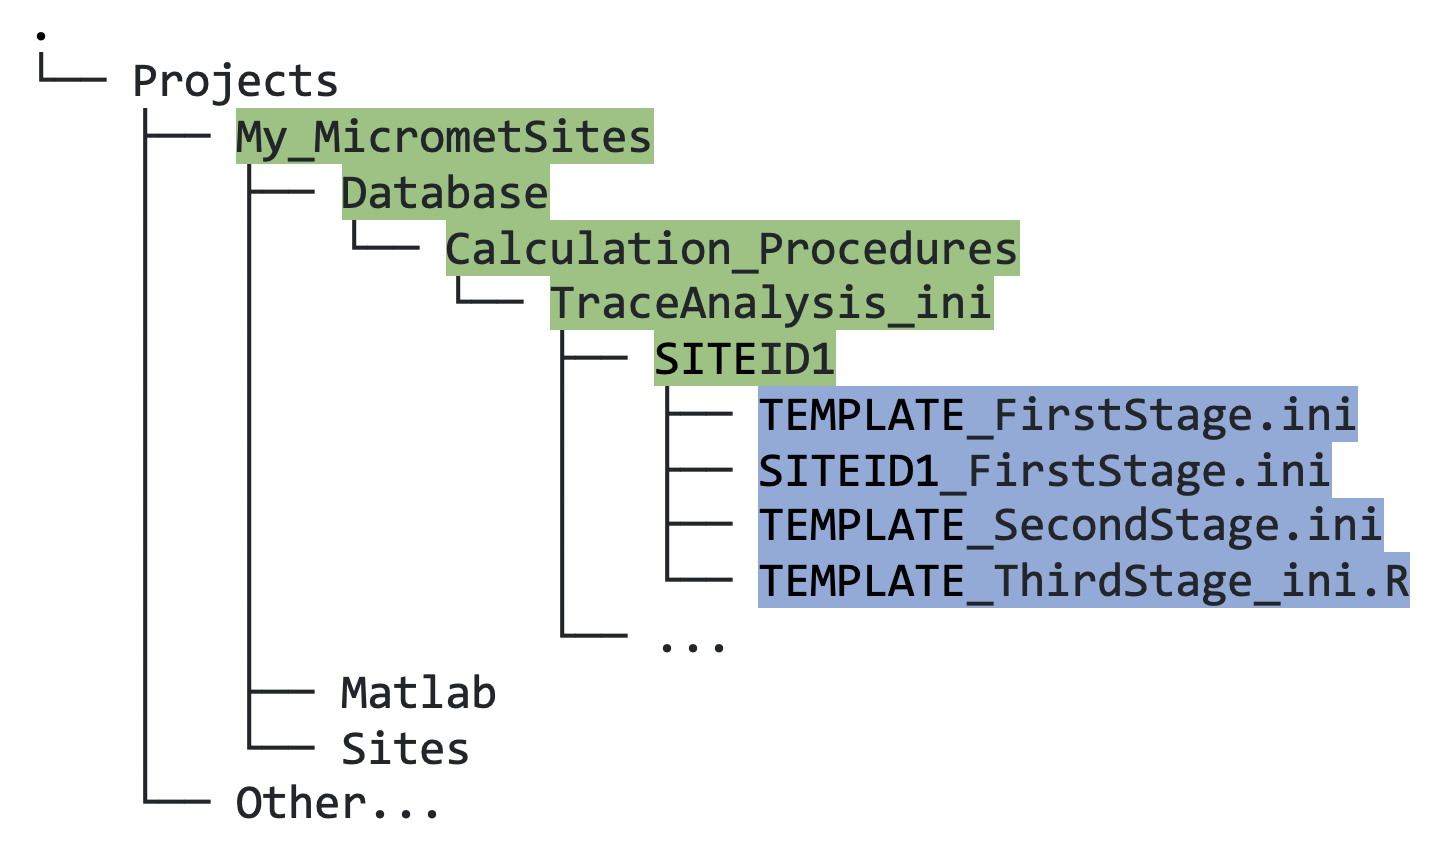
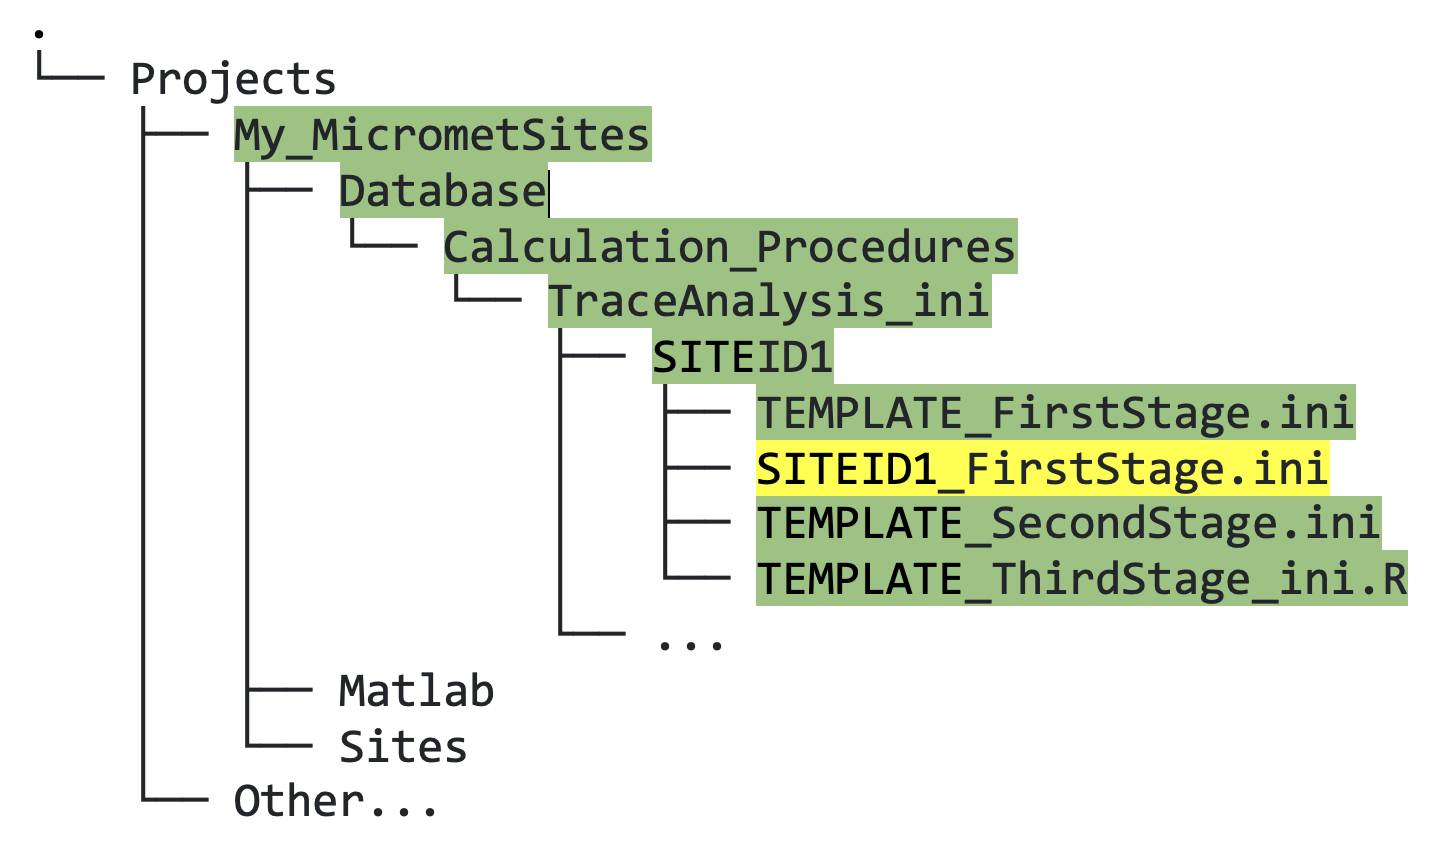
Added second stage INI template, plus minor edits

diff --git a/6.2_Quick_Start_Create_Second_Stage_INI_File.md b/6.2_Quick_Start_Create_Second_Stage_INI_File.md
@@ -1,66 +1,30 @@
-## 6.3. &nbsp; Quick Start: Create Your Second Stage INI File for Data Cleaning 
+## 6.2. &nbsp; Quick Start: Create Your Second Stage INI File for Data Cleaning 
 
-[XXX In Progress]
+This section will show you how to create your second stage INI file, in order to carry out the second stage data cleaning. The following steps assume that you have already created a first stage INI file for your flux site.
 
-#### *Second Stage INI file*
+1. As with the first stage, make a copy of `TEMPLATE_SecondStage.ini`, then rename the copy, replacing "TEMPLATE" with your site ID (`SITEID1` in this example; this filename format is required).
+2. Near the top of the file, insert the full name of your site (more descriptive is better) and your site ID. 
+3. The `TEMPLATE_SecondStage.ini` file provided already includes a set of fundamental climate variables. We advise testing the file with only these variables first. Note that even if you are not changing anything in the second stage, you must still include any variable that you wish to be available for the third stage (and beyond, e.g., Ameriflux submission), i.e., they must be "passed through".
+4. Test the second stage data cleaning in Matlab, as follows:
+    ```
+    fr_automated_cleaning(yearIn,'SITEID',2)
+    ```
+    Note the input parameter `2` instead of `1`, denoting second stage. You should see a new `Clean` folder directly under the site ID directory in your Database, for whichever year(s) you ran it for. Within that `Clean` folder, there will be a `SecondStage` folder (figure XXX).
 
-The steps to create your second stage INI are very similar to the first stage:
-* Duplicate the `DSM_SecondStage.ini` file you obtained then rename it with your unique measurement site ID, e.g., `MySITEID_SecondStage.ini` (you should have already completed this step [XXX link to Obtain_Sample_Config_Standardization_Files.md]).
-* Edit second stage INI file adding *just a few variables at a time* (as with the first stage) and then testing, so it’s easy to diagnose errors/typos. Pay attention to the output in your Matlab command window, it is informative and highlights any issues and where they occur. Recall the data cleaning principles previously outlined [XXX link to Data_Cleaning_Principles section?] and make sure your traces align with the second stage principles.
+    <img src="images/directory_trees/DirectoryTree6b_short.jpg" alt="DirectoryTree:MatlabDirectory" width="350"/>
 
-#### Second stage main features:
-1. Combining multiple sensor measurements into one trace. This can be done in different ways using `calc_avg_trace.m`, which combines two or more traces from the first stage (i.e., already deemed “good” sensor measurements; see section XXX on data cleaning principles). You can also combine these three methods:
- * Averaging multiple sensors to remove variability;
- * Using one sensor as the best (most accurate value) and using the other sensor(s) only to fill in the missing values. A relationship can be created between the “best” sensor and its “replacement” and that relationship can be applied to the “replacement” values to improve the accuracy;
- * Using the sensors from another near-by site to fill in the missing values at the current site.
+    *Figure 6.4. Directory tree showing location of data output (in this example, variable1, variable2, ...) from second stage cleaning.*
 
-    Arguments for `calc_avg_trace` function:
-    | Field | Description | Type |
-    | ----- | ----------- | ---- |
-    | tv | input the time vector `clean_tv` that has already been created in the first stage cleaning | n/a|
-    | data_in | the name of the trace output from stage one, to be filled or "improved" by combining/averaging with another trace or traces | string uppercase |
-    | data_fill | the name of the traces used to average/gap-fill "data_in" trace; these "data_fill" traces must have been included in the first stage | integer |
-    | avg_period | |
+5. You can add any more relevant variables into the second stage INI file. Again, use the visualization tools to check your data looks as expected, then you are ready to progress to third stage cleaning.
 
+[XXX add fluxes to template? needed for third stage example?]
 
+### Quick summary of second stage features
+1. Combine multiple traces into one using the `calc_avg_trace` function. These traces *must* already have been defined in the first stage.
+2. Use the "Evaluate" option to operate on your input traces.
 
-2. As with the first stage, more complex user-defined processing can be applied to the trace using the “Evaluate” option. User written Matlab functions can be called from this statement. Multiple Matlab statements can be called from within the “Evaluate” string. Some rules for formatting apply here (see the DSM SecondStage ini file for details and examples).
-
-[Add DSM_SecondStage.INI file image or link to file for downloading]
-
-#### Second Stage INI file Properties
-
-| Field      | Description |
-| ----------- | ----------- |
-| **XXX Which of these first six fields are actually used/necessary?**
-| Site_name   | Name of the site. Any text can go here.        |
-| SiteID      | This is the name attributed to the site in the database (e.g., DSM or BB). |
-| input_path  | This can stay blank |
-| output_path | The local output path?  **Example says leave blank?** |
-| high_level_path | leave blank:{}. It used to indicate Met/Flux, etc.|
-| searchPath  | All traces on this path(s) will be loaded up and available in the SecondStage cleaning. Syntax: use 'auto' or use specific folders to limit or to expand the (example: 'Flux\Clean,Met\Clean,Flags\Clean'). When option 'auto' is used, all the traces created by the FirstStage cleaning will be automatically loaded before the SecondStage cleaning starts. |
-|[Trace] | Marks the beginning of a new variable. The section has to end with the keyword <[End]>.|
-| variableName | Name of variable for second stage, again following Ameriflux format. The variable with the name created here will show up in the `/Database/yyyy/SITEID/Clean/SecondStage` folder, where `yyyy` is the year that the data is valid for. |
-| Evaluate | User defined function.  If no function is applied, default input will just pass the variable from the first stage to the second stage, e.g.,  `Evaluate = 'TKE = TKE;'`.  Use the `calc_avg_trace` function (described above) to average or gap-fill met variables (such as air temperature) with values from secondary measurements or nearby sites (you will need to load these into the first stage before using them in this second stage). See sample file `DSM_SecondStage.ini` for more use cases.|
-| title | Descriptive variable name for plots/visualization. |
-| units | Units for this current trace, e.g. `'W/m^2'`|
-
-Once you have added a few variables to the second stage INI, test it using the following Matlab command:
-`fr_automated_cleaning(yearIn,SITEID,[1 2])`
-Alternatively, if you already ran the first stage, you can simply run:
-`fr_automated_cleaning(yearIn,SITEID,2)`.
-
-**Note for first and second stage:** [XXX not sure if this belongs here or elsewhere] Here are some programming rules that you must follow for the INI files to be successfully read by the pipeline scripts:
+Example: the `TA_1_1_1` trace you defined in the first stage has some missing data and there is a nearby reliable climate station with a long record. In the first stage you also defined (and filtered etc.) data from this climate station in a variable called `TA_ECCC`. Then in the second stage, you can use `calc_avg_trace` within the `Evaluate` parameter, as follows:
 ```
-Programming Syntax Rules for First and Second stage INI files:
-
-1. We enforce using uppercase for site IDs to avoid problems between running data cleaning on Mac vs. Windows.
-2. All traces must be enclosed in [Trace] and [End] blocks.
-3. All assignments can be on multiple lines, but should be enclosed in single quotes.
-4. Comments must begin with a percentage sign (%).
-5. All fields must be in Matlab format.
-6. All parameter assignments must be to strings in single quotes, or numeric expressions, e.g., threshold_const = 6, threshold_const = [6], variableName = 'Some Name'.
-7. For the first stage, the partial path must be included with the inputFileName when you locate the raw data trace in the database. (Using biomet_path function only returns the path: /year/SITEID/measType/)
-8. First stage necessary fields are: variableName, inputFileName, measurementType, units, title, and minMax.
-9. Second stage necessary fields are: variableName, title, units.
+Evaluate = 'TA_1_1_1 = calc_avg_trace(clean_tv,TA_1_1_1,TA_ECCC,-1)';
 ```
+The function regresses the two variables provided and uses the resulting linear fit to fill the gap(s) in the first variable. For more details on this see the full documentation section 6.5 [XXX link]. Note that fluxes are gap-filled in stage three. 

diff --git a/4.2_Full_Doc_Setup_Project_Directory_Structure_Details.md b/4.2_Full_Doc_Setup_Project_Directory_Structure_Details.md
@@ -4,9 +4,7 @@
 
 Here is the long version of how to set up your project directory structure and configure Matlab to work with Biomet.net. For the "Quick Start" guide to both these procedures, see section 4.1 [XXX link].
 
-Each user should have at least one `Project` directory. This project folder encompasses data cleaning/analysis/research for a group of similar flux sites, e.g., FLUXNET-Canada-V2.0. This section describes what your project directory structure should look like for the existing data cleaning scripts to operate successfully. 
-
-We provide you with a function as part of the Biomet library to help you set it up. Reminder that in the directory tree diagrams, <mark style="background-color: lightgreen">directory paths are highlighted in green</mark>, and <mark style="background-color: lightblue">files are highlighted in blue</mark>. [XXX fix to match exact colour used in images!]
+Each user should have at least one `Project` directory. This project folder encompasses data cleaning/analysis/research for a group of similar flux sites, e.g., FLUXNET-Canada-V2.0. This section describes what your project directory structure should look like for the existing data cleaning scripts to operate successfully. We provide you with a function as part of the Biomet library to help you set it up.
 
 **Important notes**: 
 * We enforce using *uppercase* for site IDs, to avoid problems between running data cleaning on Mac vs. Windows. Examples: the Delta Salt Marsh site ID is `DSM`; the Turkey Point Agriculture site ID is `TPAG`.

diff --git a/1_Motivation_Importance_of_Data_Standardization_Reproducibility.md b/1_Motivation_Importance_of_Data_Standardization_Reproducibility.md
@@ -11,5 +11,5 @@ Include/emphasize why this is a good way compared with their usual way - same as
 [XXX Rosie see notes for adding content here]
 
 **Note:** 
-Throughout this documentation, you will see figures with directory tree diagrams to help you ensure your folders are set up correctly. Note that <mark style="background-color: lightgreen">directory paths are highlighted in green</mark>, and <mark style="background-color: lightblue">files are highlighted in blue</mark>. [XXX add html to match exact colour used in images]
-[XXX this note may fit better elsewhere, also not necessarily true yet! - will work on this formatting once things are more complete]
+[XXX remove this maybe]
+Throughout this documentation, you will see figures with directory tree diagrams and Matlab code. Note that <mark style="background-color: lightgreen">directory paths are highlighted in green</mark>, <mark style="background-color: yellow">necessary edits are highlighted in yellow</mark>, and <mark style="background-color: #FFE5B4">edits that you may need to make are highlighted in peach</mark>. [XXX add html to match exact colour used in images]

diff --git a/6.3_Quick_Start_Third_Stage_Cleaning_And_Ameriflux_Output.md b/6.3_Quick_Start_Third_Stage_Cleaning_And_Ameriflux_Output.md
@@ -1,7 +1,6 @@
-## 6.5. &nbsp; Quick Start: Third Stage Cleaning and Converting to Ameriflux Output
+## 6.3. &nbsp; Quick Start: Third Stage Cleaning and Converting to Ameriflux Output
 
 [XXX In Progress]
-[XXX Do we need quick start for third stage?]
 
 Once you have set up the relevant configuration files and your third stage INI, test it using the following Matlab command:
 `fr_automated_cleaning(yearIn,siteID,[1 2 7])`.

diff --git a/6.4_Full_Doc_Create_First_Stage_INI_File.md b/6.4_Full_Doc_Create_First_Stage_INI_File.md
@@ -1,4 +1,4 @@
-## 6.2. &nbsp; Full Documentation: Creating Your First Stage INI file, Global Variables, Include Files, and Tags
+## 6.4. &nbsp; Full Documentation: Creating Your First Stage INI file, Global Variables, Include Files, and Tags
 
 [XXX In Progress]
 

diff --git a/6.5_Full_Doc_Create_Second_Stage_INI_File.md b/6.5_Full_Doc_Create_Second_Stage_INI_File.md
@@ -1,4 +1,4 @@
-## 6.4. &nbsp; Full Documentation: Create your First Stage INI File for Data Cleaning 
+## 6.5. &nbsp; Full Documentation: Create your First Stage INI File for Data Cleaning 
 
 [XXX In Progress]
 

diff --git a/6.6_Full_Doc_Third_Stage_Cleaning_And_Ameriflux_Output.md b/6.6_Full_Doc_Third_Stage_Cleaning_And_Ameriflux_Output.md
@@ -1,4 +1,4 @@
-## 6.5. &nbsp; Quick Start: Third Stage Cleaning and Converting to Ameriflux Output
+## 6.6. &nbsp; Quick Start: Third Stage Cleaning and Converting to Ameriflux Output
 
 [XXX In Progress]
 
